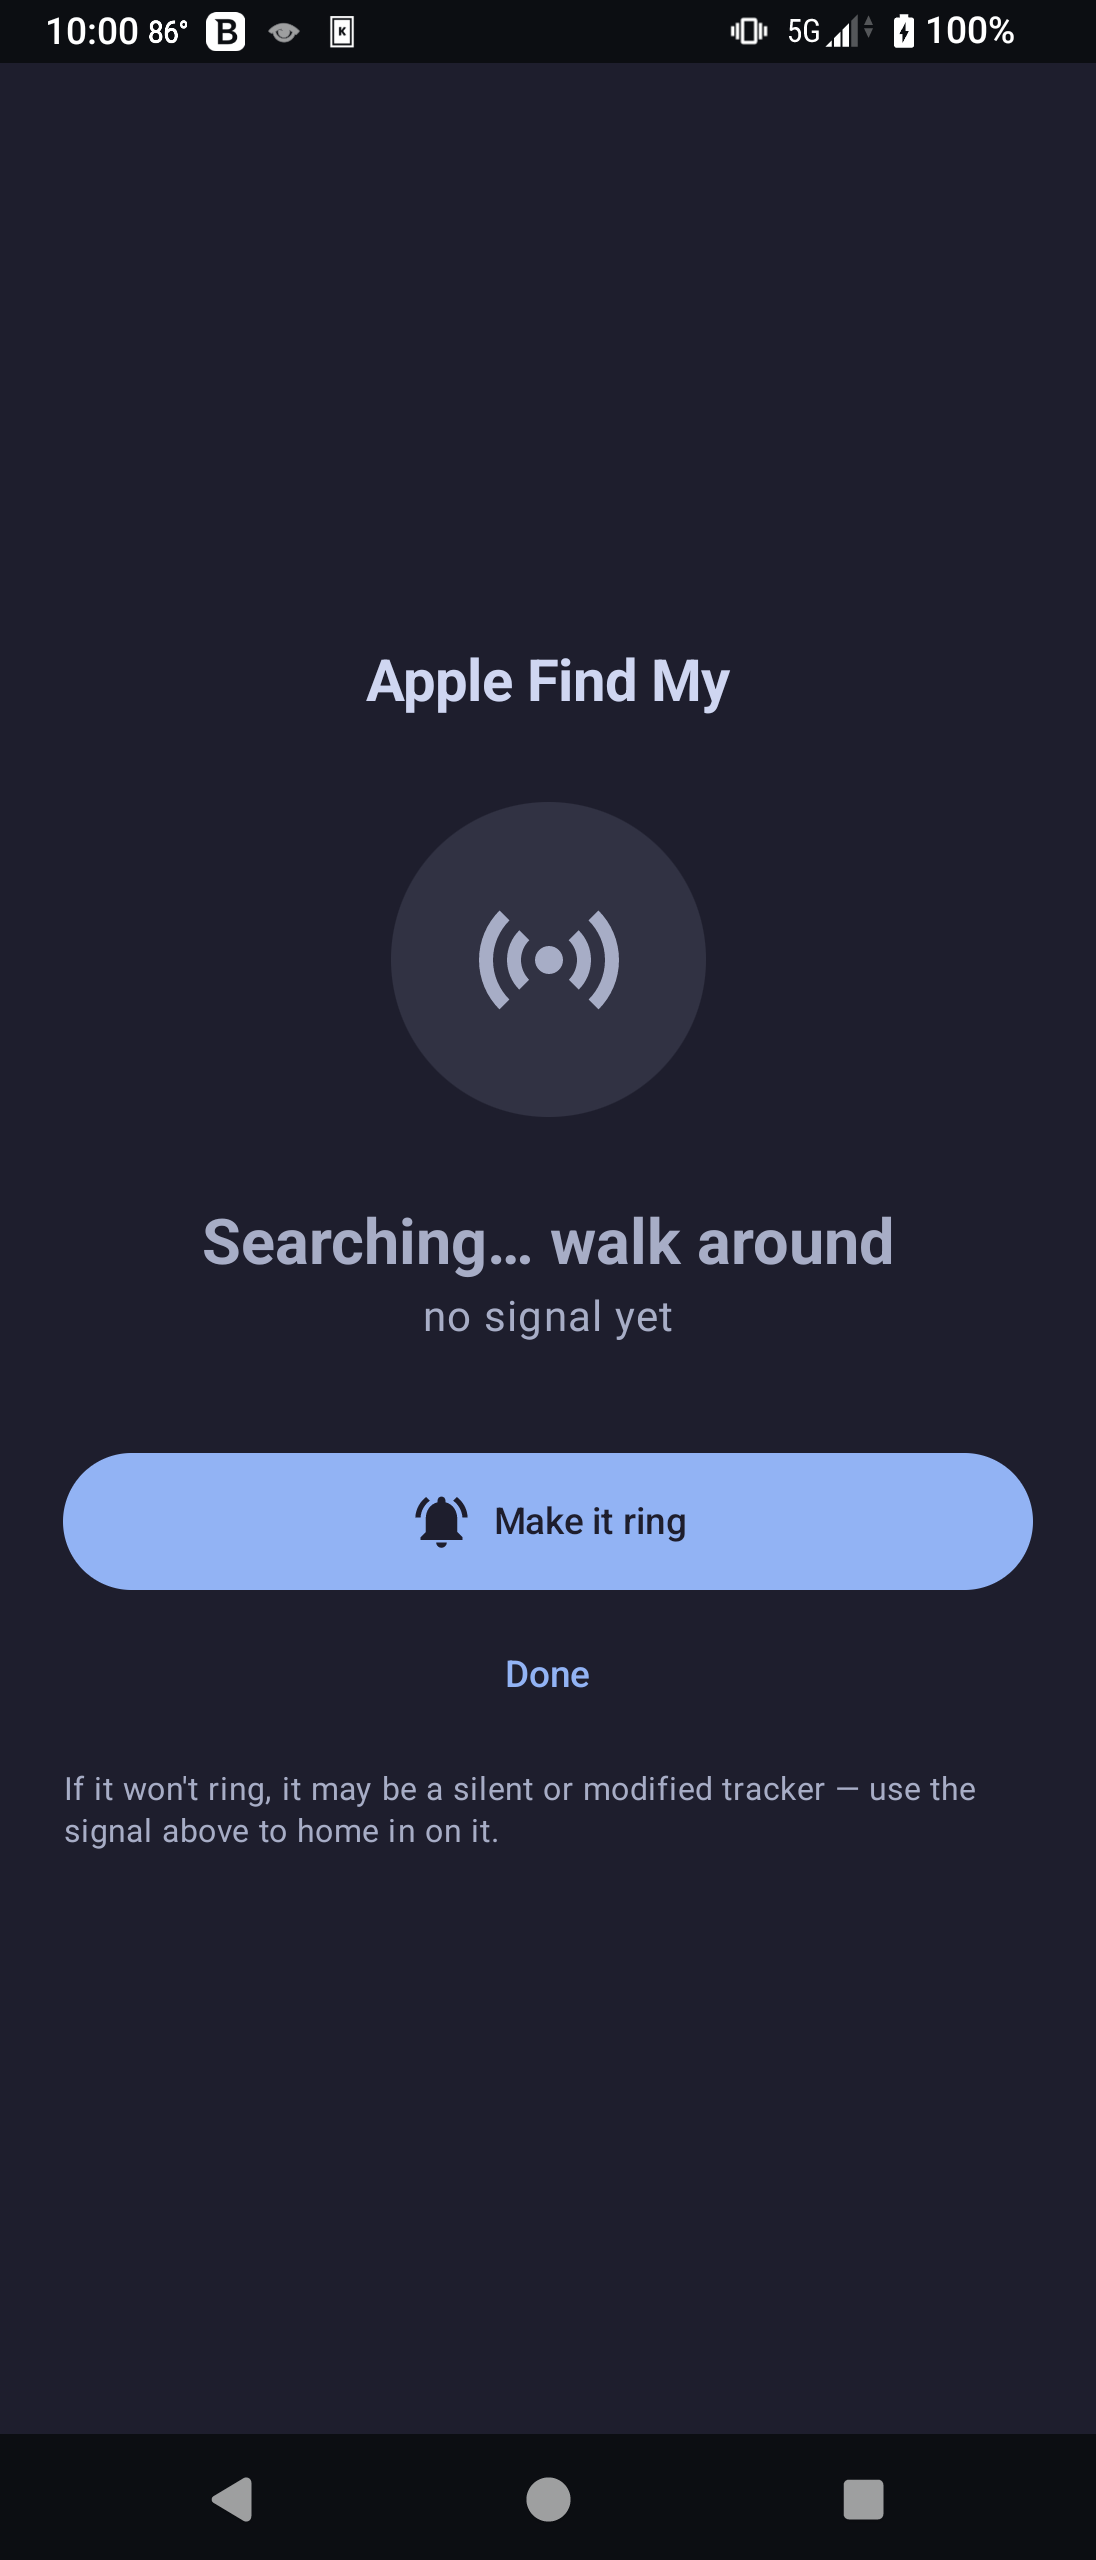
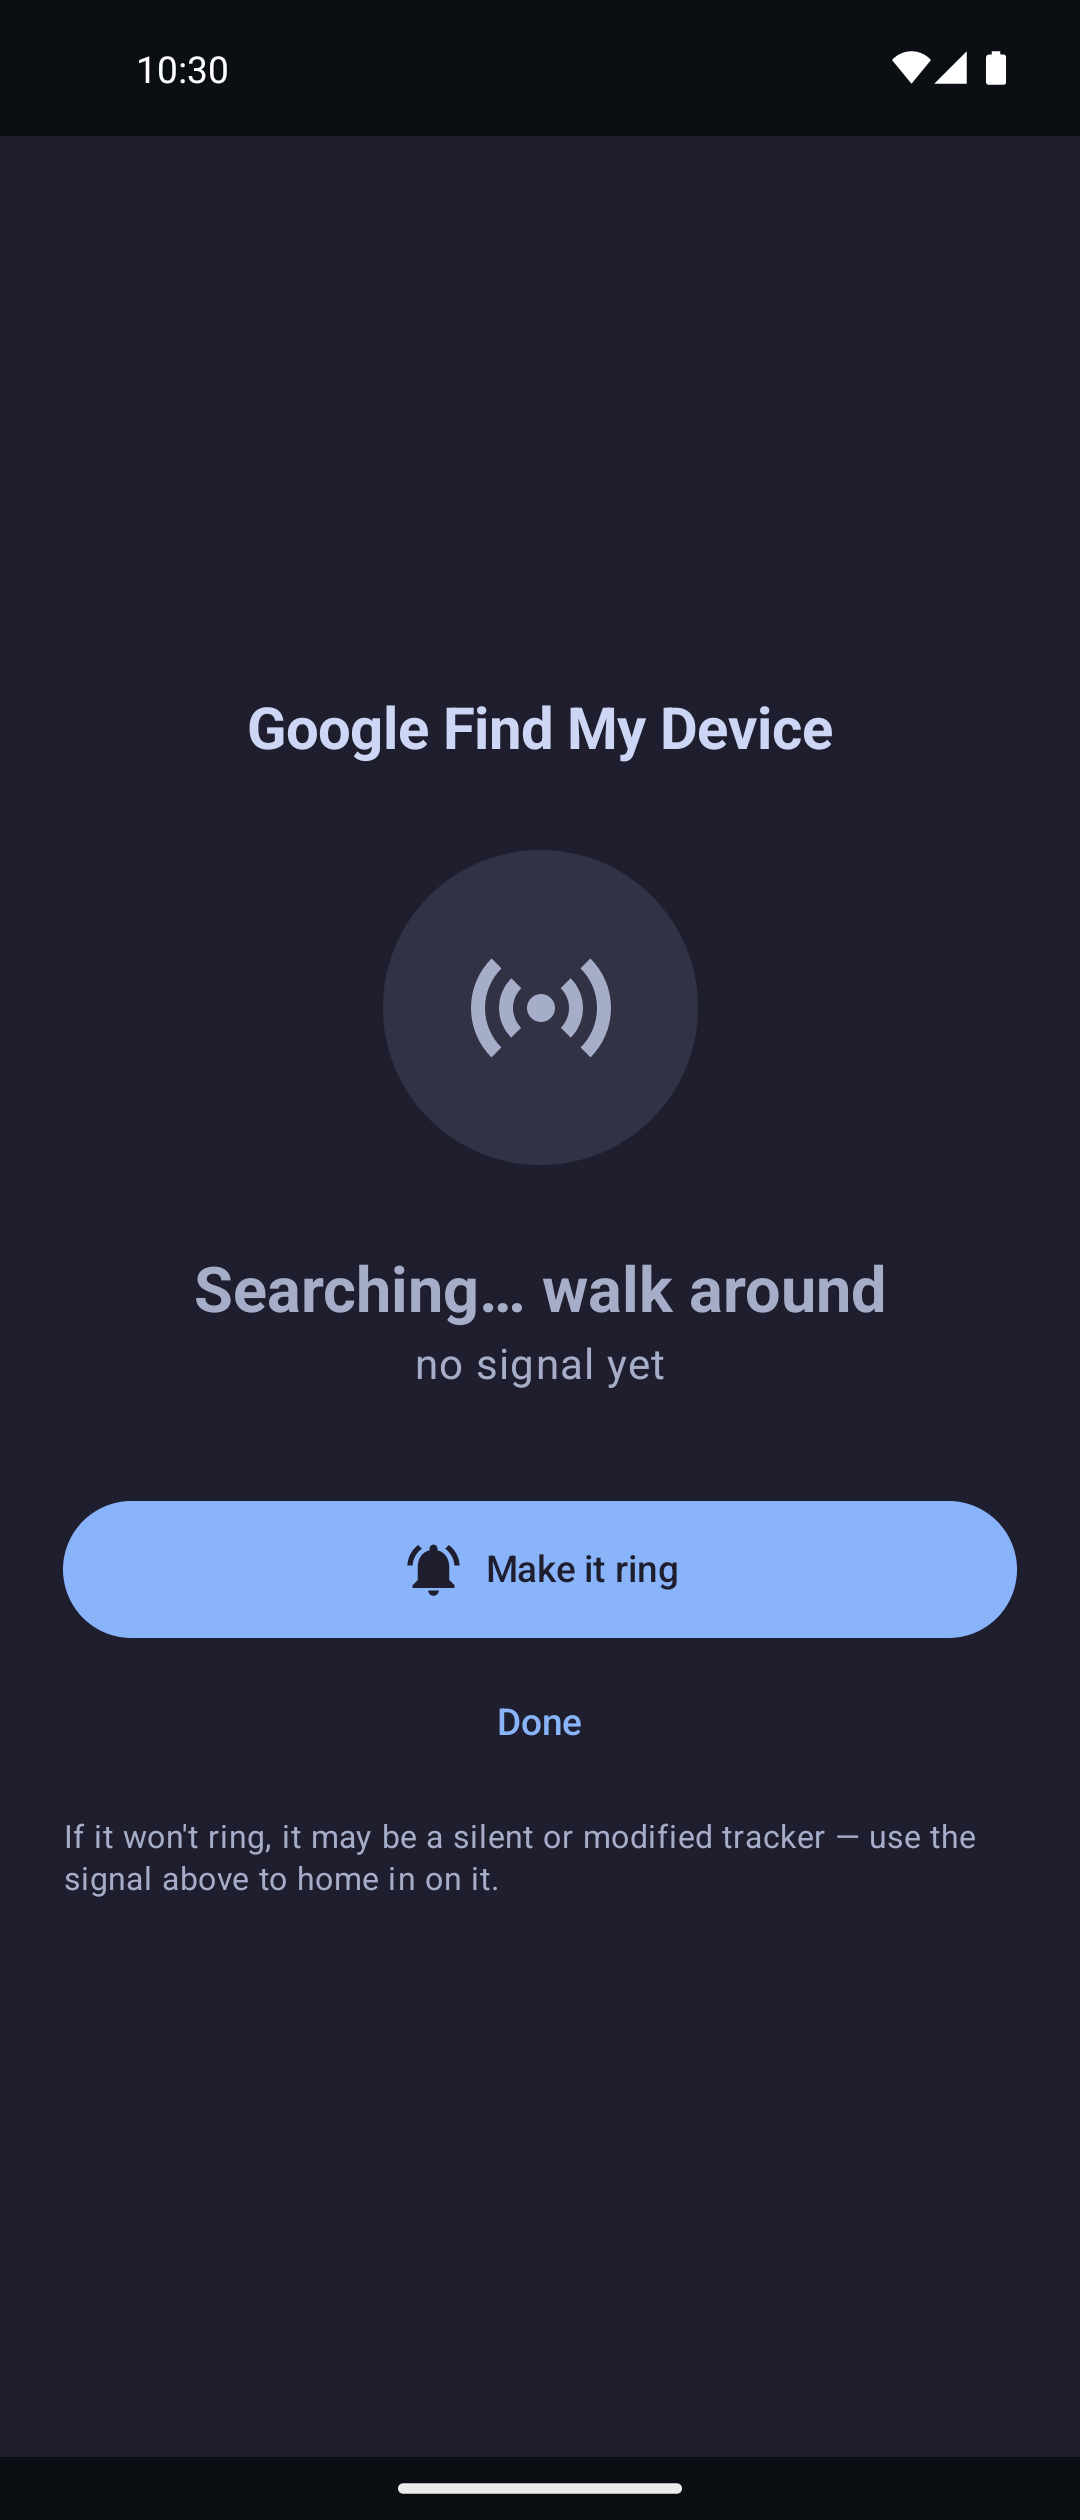
site: retake the hero and finder shots on the emulator, labelled
The site's hero, locate and signal shots and both finder shots in the README
are now VIGIL 0.1.14 on an Android emulator. The finder shots home in on a
simulated Google Find My Device tag (frame 0x41 over the emulator's virtual
Bluetooth), and their captions and alt text say so. The two Active-list shots
are still the earlier real-phone captures and are labelled that way. Changed
site images get new ?v= values so Cloudflare serves them.

Claude-Session: https://claude.ai/code/session_012GMrfsTNwRyQu3zQfZEkeS

diff --git a/docs/index.html b/docs/index.html
@@ -67,10 +67,10 @@
     </p>
 
     <div class="phone-hero">
-      <img class="phone" src="img/vigil-main.png?v=2" width="1096" height="2280"
-        alt="VIGIL main screen (earlier build): a green &quot;You're clear — nothing has been following you&quot; card, a Stop Watching button, and a High/Medium/Low sensitivity selector." loading="eager">
+      <img class="phone" src="img/vigil-main.png?v=3" width="1080" height="2321"
+        alt="VIGIL main screen while watching, on an Android emulator: a green &quot;All quiet: No tracker seen moving with you&quot; card, a Stop Watching button, a High/Medium/Low sensitivity selector set to Medium, and Nothing nearby." loading="eager">
     </div>
-    <p class="tl-foot" style="text-align:center;margin-top:.4rem">Screenshot from an earlier build (0.1.7). Since 0.1.13, VIGIL says only what it observed: &ldquo;All quiet: No tracker seen moving with you.&rdquo;</p>
+    <p class="tl-foot" style="text-align:center;margin-top:.4rem">VIGIL 0.1.14 on an Android emulator.</p>
 
     <div class="stats-row" id="stats-row">
       <div class="stat-chip"><span class="num" data-target="5">0</span><span>tracker ecosystems</span></div>
@@ -239,21 +239,21 @@
     <div class="shots">
       <figure class="shot">
         <img class="phone" src="img/vigil-active.png" width="1096" height="2560"
-          alt="VIGIL active list: an ACTIVE (6) list of nearby Apple Find My and Google Find My Device trackers, each showing places seen, signal in dBm, time since last seen, and an It's-mine button." loading="lazy">
+          alt="VIGIL active list (earlier build, on a real phone): an ACTIVE (6) list of nearby Apple Find My and Google Find My Device trackers, each showing places seen, signal in dBm, time since last seen, and an It's-mine button." loading="lazy">
         <figcaption><strong>The active list</strong>Every tracker heard in the last 10 minutes, with its status, places, signal and how long ago. Tap &ldquo;It's mine&rdquo; and your own gear drops out.</figcaption>
       </figure>
       <figure class="shot">
-        <img class="phone" src="img/vigil-locate.png" width="1096" height="2560"
-          alt="VIGIL locate screen for an Apple Find My tracker: a radar icon in a circle reading Searching… walk around, no signal yet, with a Make-it-ring button." loading="lazy">
+        <img class="phone" src="img/vigil-locate.png?v=2" width="1080" height="2520"
+          alt="VIGIL locate screen for a simulated Google Find My Device tag, on an Android emulator: a radar icon in a circle reading Searching… walk around, no signal yet, with a Make-it-ring button." loading="lazy">
         <figcaption><strong>Locate mode</strong>Pick a suspect and walk — the circle grows and turns green as you close in. No signal yet? Keep moving.</figcaption>
       </figure>
       <figure class="shot">
-        <img class="phone" src="img/vigil-signal.png?v=2" width="1096" height="2560"
-          alt="VIGIL locate screen for a Google Find My Device tracker reading Close, minus 52 dBm, with a Make-it-ring button." loading="lazy">
+        <img class="phone" src="img/vigil-signal.png?v=3" width="1080" height="2520"
+          alt="VIGIL locate screen for a simulated Google Find My Device tag, on an Android emulator, reading Close, minus 69 dBm, with a Make-it-ring button." loading="lazy">
         <figcaption><strong>Getting warmer</strong>Live signal strength as you approach. &ldquo;Make it ring&rdquo; asks it to play its sound and tells you what it answered. A silent or modified tag won't ring; the meter is how you find that one.</figcaption>
       </figure>
     </div>
-    <p class="tl-foot" style="text-align:center">Screenshots are from an earlier build. The current app words some screens differently, and its header adds History and Safety buttons.</p>
+    <p class="tl-foot" style="text-align:center">The active list is from an earlier build on a real phone: the current app says &ldquo;All quiet&rdquo; where it said &ldquo;You're clear&rdquo;, and its header adds History and Safety buttons. The locate and signal shots are VIGIL 0.1.14 on an Android emulator, with a simulated Google Find My Device tag. The screens are the real app; the tag isn't.</p>
   </div>
 </section>
 

diff --git a/README.md b/README.md
@@ -31,16 +31,16 @@ sustained window. VIGIL is built around that idea.
 ## Screenshots
 
 <p align="center">
-  <img src="docs/screenshots/main.png" width="230" alt="VIGIL main screen (earlier build): a You're clear card, the sensitivity selector, and an Active list of nearby trackers with It's mine buttons" />
+  <img src="docs/screenshots/main.png" width="230" alt="VIGIL main screen (earlier build, on a real phone): a You're clear card, the sensitivity selector, and an Active list of nearby trackers with It's mine buttons" />
   &nbsp;
-  <img src="docs/screenshots/finder-searching.png" width="230" alt="Hot/cold finder searching for a tracker" />
+  <img src="docs/screenshots/finder-searching.png" width="230" alt="Hot/cold finder searching for a simulated Google Find My Device tag on an Android emulator: Searching… walk around, no signal yet" />
   &nbsp;
-  <img src="docs/screenshots/finder-close.png" width="230" alt="Finder homing in on a device, with Make it ring" />
+  <img src="docs/screenshots/finder-close.png" width="230" alt="Finder homing in on a simulated Google Find My Device tag on an Android emulator: Very close, minus 58 dBm, with Make it ring" />
 </p>
 
 <p align="center"><sub>The watch list &nbsp;·&nbsp; the hot/cold finder searching &nbsp;·&nbsp; homing in on a tracker, with “Make it ring”</sub></p>
 
-<p align="center"><sub>Screenshots are from an earlier build. The current app words some screens differently, and its header adds History and Safety buttons.</sub></p>
+<p align="center"><sub>The watch list is from an earlier build on a real phone: the current app says “All quiet” where it said “You're clear”, and its header adds History and Safety buttons. The two finder shots are VIGIL 0.1.14 on an Android emulator, with a simulated Google Find My Device tag. The screens are the real app; the tag isn't.</sub></p>
 
 ## Privacy first — fully offline
 
